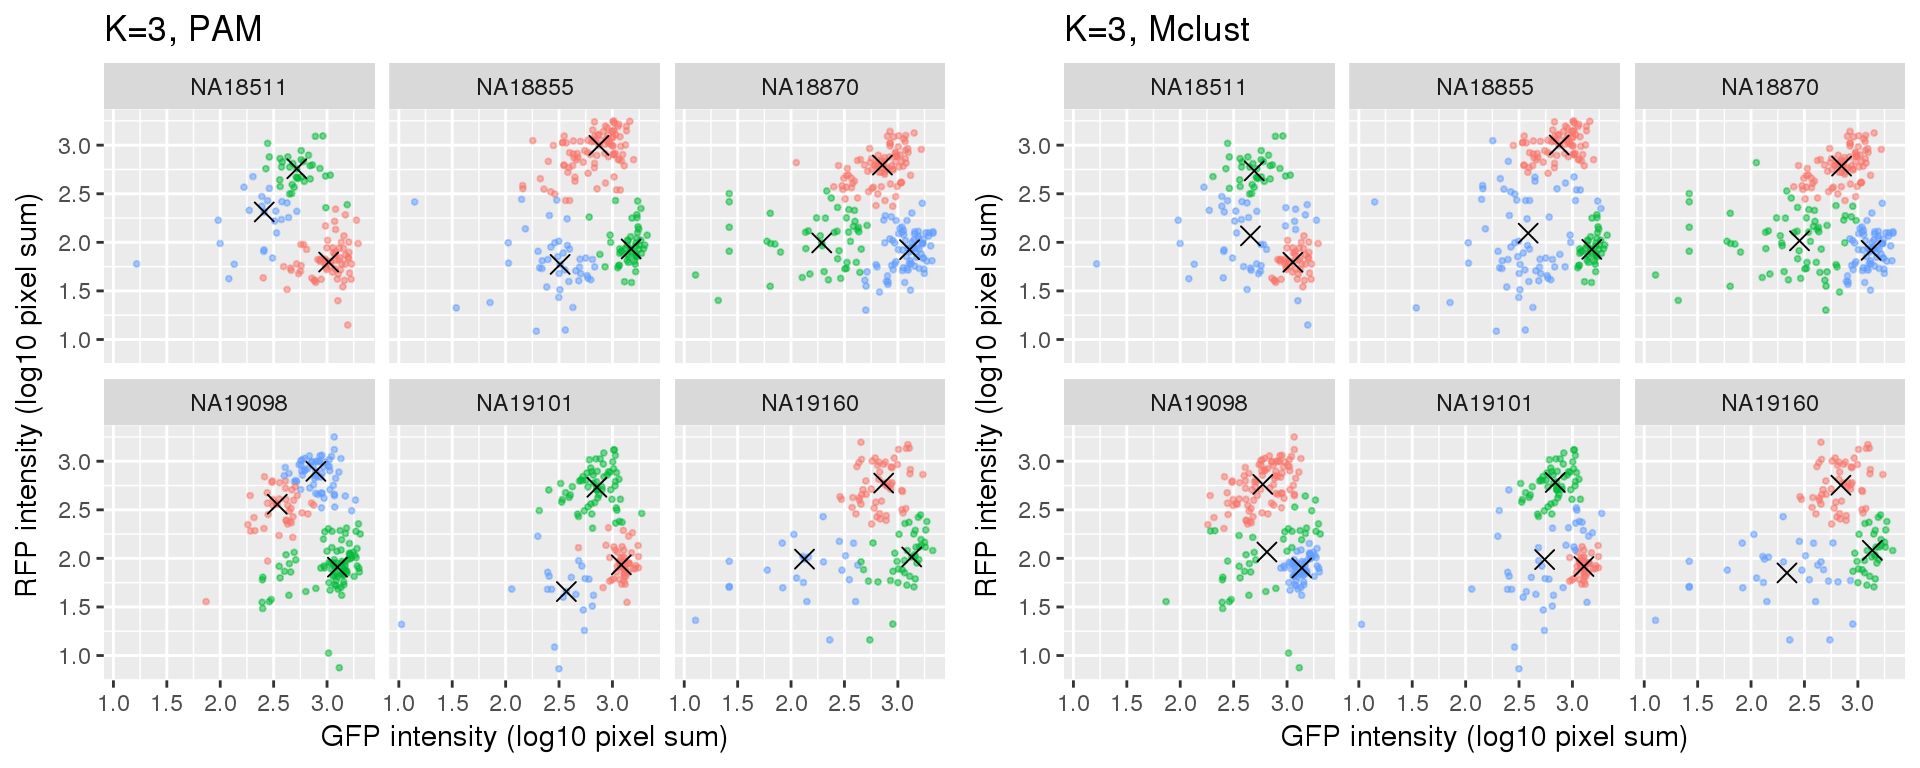
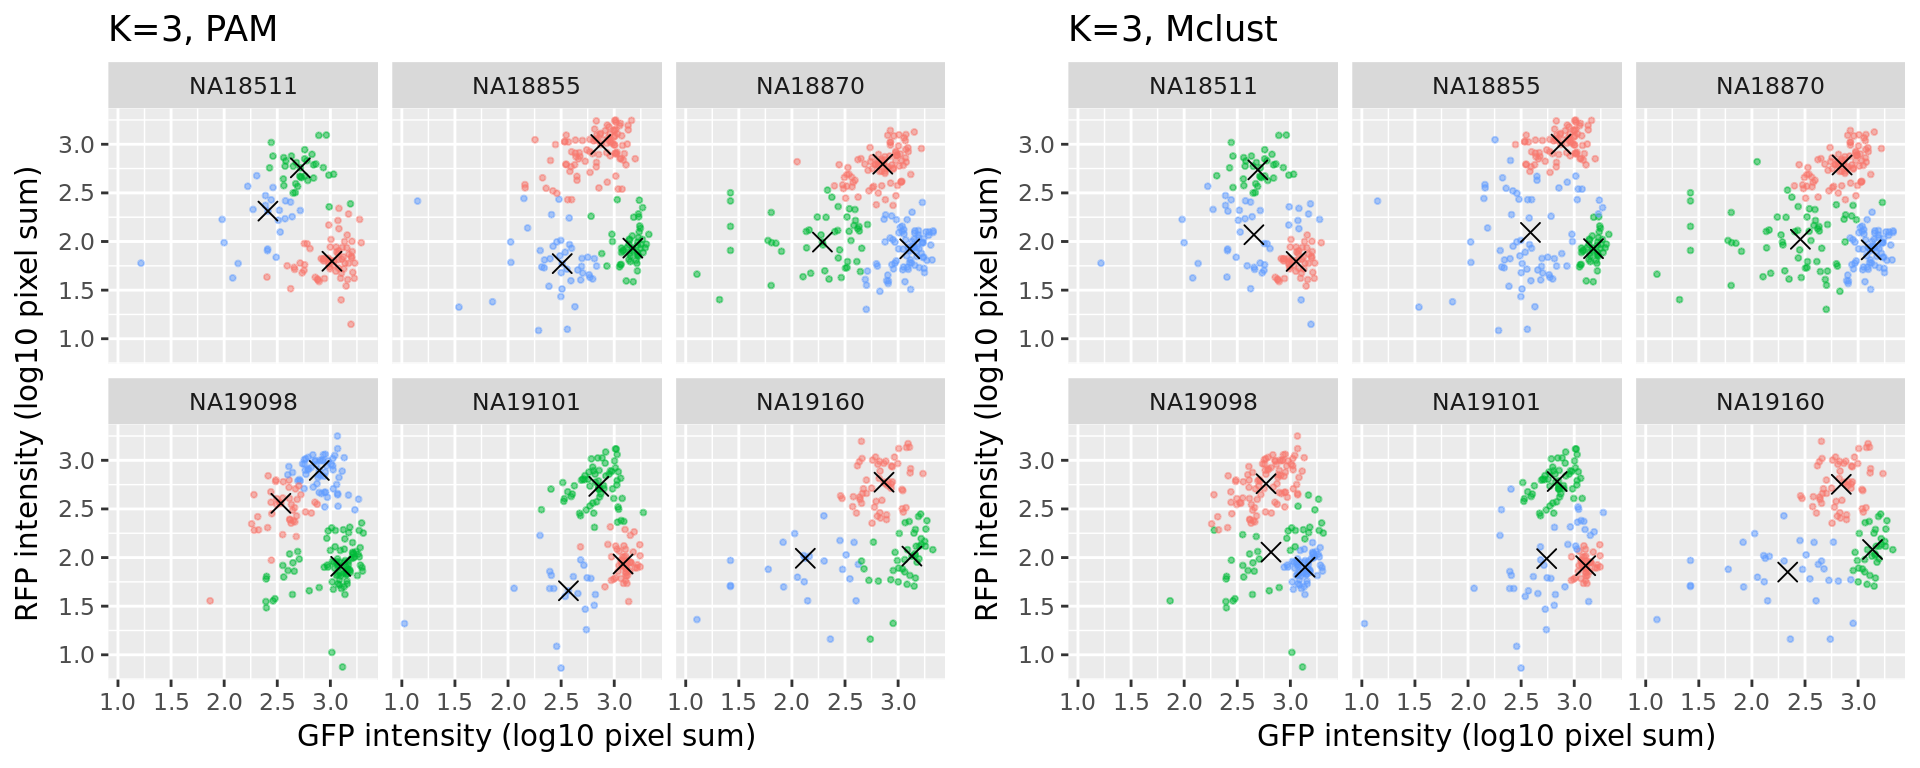
Build site.

diff --git a/docs/images-subset-silhouette.html b/docs/images-subset-silhouette.html
@@ -319,10 +319,10 @@ div.section {
 shared across the workflowr files. -->
 <!-- Update knitr chunk options -->
 <!-- Insert the date the file was last updated -->
-<p><strong>Last updated:</strong> 2018-01-30</p>
+<p><strong>Last updated:</strong> 2018-01-31</p>
 <!-- Insert the code version (Git commit SHA1) if Git repository exists and R
  package git2r is installed -->
-<p><strong>Code version:</strong> e69bd0d</p>
+<p><strong>Code version:</strong> 8ea93f0</p>
 <hr />
 <div id="overviewresults" class="section level2">
 <h2>Overview/Results</h2>
@@ -463,21 +463,94 @@ foo &lt;- lapply(1:uniqueN(si_pam_long$chip_id), function(i) {
 })
 foo &lt;- do.call(rbind, foo)
 si_pam_25 &lt;- foo</code></pre>
+<p>Compare full set versus subset of cells.</p>
+<p><img src="figure/images-subset-silhouette.Rmd/unnamed-chunk-7-1.png" width="960" style="display: block; margin: auto;" /></p>
+<p>hard code cluster labels. default in ggplot is 1 orange, 2 green, 3 blue</p>
+<pre class="r"><code># NA18511
+# orange 1 to 3, green 2 to 2, blue 3 to 1, 
+
+# NA18855
+# orange 1 to 2, green 2 to 3, blue 3 to 1, 
+
+# NA18870
+# orange 1 to 2, green 2 to 1, blue 3 to 3
+
+# NA19098
+# orange 1 to 1, green 2 to 3, blue 3 to 2
+
+# NA19101
+# orange 1 to 3, green 2 to 2, blue 3 to 1
+
+# NA19160
+# orange 1 to 2, green 2 to 3, blue 3 to 1
+
+tmp &lt;- si_pam_long
+tmp[si_pam_long$chip_id == &quot;NA18511&quot; &amp; si_pam_long$cluster==1,]$cluster &lt;- 3
+tmp[si_pam_long$chip_id == &quot;NA18511&quot; &amp; si_pam_long$cluster==2,]$cluster &lt;- 2
+tmp[si_pam_long$chip_id == &quot;NA18511&quot; &amp; si_pam_long$cluster==3,]$cluster &lt;- 1
+
+tmp[si_pam_long$chip_id == &quot;NA18855&quot; &amp; si_pam_long$cluster==1,]$cluster &lt;- 2
+tmp[si_pam_long$chip_id == &quot;NA18855&quot; &amp; si_pam_long$cluster==2,]$cluster &lt;- 3
+tmp[si_pam_long$chip_id == &quot;NA18855&quot; &amp; si_pam_long$cluster==3,]$cluster &lt;- 1
+
+tmp[si_pam_long$chip_id == &quot;NA18870&quot; &amp; si_pam_long$cluster==1,]$cluster &lt;- 2
+tmp[si_pam_long$chip_id == &quot;NA18870&quot; &amp; si_pam_long$cluster==2,]$cluster &lt;- 1
+tmp[si_pam_long$chip_id == &quot;NA18870&quot; &amp; si_pam_long$cluster==3,]$cluster &lt;- 3
+
+tmp[si_pam_long$chip_id == &quot;NA19098&quot; &amp; si_pam_long$cluster==1,]$cluster &lt;- 1
+tmp[si_pam_long$chip_id == &quot;NA19098&quot; &amp; si_pam_long$cluster==2,]$cluster &lt;- 3
+tmp[si_pam_long$chip_id == &quot;NA19098&quot; &amp; si_pam_long$cluster==3,]$cluster &lt;- 2
+
+tmp[si_pam_long$chip_id == &quot;NA19101&quot; &amp; si_pam_long$cluster==1,]$cluster &lt;- 3
+tmp[si_pam_long$chip_id == &quot;NA19101&quot; &amp; si_pam_long$cluster==2,]$cluster &lt;- 2
+tmp[si_pam_long$chip_id == &quot;NA19101&quot; &amp; si_pam_long$cluster==3,]$cluster &lt;- 1
+
+tmp[si_pam_long$chip_id == &quot;NA19160&quot; &amp; si_pam_long$cluster==1,]$cluster &lt;- 2
+tmp[si_pam_long$chip_id == &quot;NA19160&quot; &amp; si_pam_long$cluster==2,]$cluster &lt;- 3
+tmp[si_pam_long$chip_id == &quot;NA19160&quot; &amp; si_pam_long$cluster==3,]$cluster &lt;- 1
+
+
+plot_grid(
+  ggplot(data=si_pam_long) + 
+      geom_point(aes(x=gfp.median.log10sum, 
+                     y=rfp.median.log10sum, col=as.factor(cluster)),
+         alpha = .5, cex = .7) + 
+      geom_point(data=pam_centers,
+                  aes(x=gfp.median.log10sum,
+                      y=rfp.median.log10sum), shape=4, size=3) +
+      labs(title = &quot;K=3, PAM&quot;,
+           x=&quot;GFP intensity (log10 pixel sum)&quot;, 
+           y = &quot;RFP intensity (log10 pixel sum)&quot;) + 
+      facet_wrap(~as.factor(chip_id), ncol=3) +
+      theme_gray() + theme(legend.position=&quot;none&quot;),
+  ggplot(data=si_pam_25) + 
+      geom_point(aes(x=gfp.median.log10sum, 
+                     y=rfp.median.log10sum, col=as.factor(cluster)),
+         alpha = .5, cex = .7) + 
+      geom_point(data=pam_centers,
+                  aes(x=gfp.median.log10sum,
+                      y=rfp.median.log10sum), shape=4, size=3) +
+      labs(title = &quot;Top 25 samples within clusters&quot;,
+           x=&quot;GFP intensity (log10 pixel sum)&quot;, 
+           y = &quot;RFP intensity (log10 pixel sum)&quot;) + 
+      facet_wrap(~as.factor(chip_id), ncol=3) +
+      theme_gray() + theme(legend.position=&quot;none&quot;)
+  )</code></pre>
+<p><img src="figure/images-subset-silhouette.Rmd/unnamed-chunk-8-1.png" width="672" style="display: block; margin: auto;" /></p>
 <p>save subset of cells to rds.</p>
 <pre class="r"><code>save(si_pam_long, si_pam_25, 
     file = &quot;../output/images-subset-silhouette.Rmd/si_pam.rda&quot;)</code></pre>
-<p>Compare full set versus subset of cells.</p>
-<p><img src="figure/images-subset-silhouette.Rmd/unnamed-chunk-8-1.png" width="960" style="display: block; margin: auto;" /></p>
 <hr />
 </div>
 <div id="session-information" class="section level2">
 <h2>Session information</h2>
 <pre><code>R version 3.4.1 (2017-06-30)
-Platform: x86_64-redhat-linux-gnu (64-bit)
-Running under: Scientific Linux 7.2 (Nitrogen)
+Platform: x86_64-pc-linux-gnu (64-bit)
+Running under: Scientific Linux 7.4 (Nitrogen)
 
 Matrix products: default
-BLAS/LAPACK: /usr/lib64/R/lib/libRblas.so
+BLAS: /home/joycehsiao/miniconda3/envs/fucci-seq/lib/R/lib/libRblas.so
+LAPACK: /home/joycehsiao/miniconda3/envs/fucci-seq/lib/R/lib/libRlapack.so
 
 locale:
  [1] LC_CTYPE=en_US.UTF-8       LC_NUMERIC=C              
@@ -492,18 +565,18 @@ attached base packages:
 [8] base     
 
 other attached packages:
-[1] tidyr_0.7.2         data.table_1.10.4-3 mclust_5.4         
-[4] cluster_2.0.6       cowplot_0.9.2       ggplot2_2.2.1      
+[1] tidyr_0.7.1         data.table_1.10.4   mclust_5.3         
+[4] cluster_2.0.6       cowplot_0.9.1       ggplot2_2.2.1      
 [7] Biobase_2.38.0      BiocGenerics_0.24.0
 
 loaded via a namespace (and not attached):
  [1] Rcpp_0.12.14     knitr_1.17       magrittr_1.5     munsell_0.4.3   
- [5] colorspace_1.3-2 rlang_0.1.4      stringr_1.2.0    plyr_1.8.4      
- [9] tools_3.4.1      grid_3.4.1       gtable_0.2.0     git2r_0.20.0    
-[13] htmltools_0.3.6  yaml_2.1.16      lazyeval_0.2.1   rprojroot_1.3-1 
-[17] digest_0.6.13    tibble_1.3.4     purrr_0.2.4      glue_1.2.0      
-[21] evaluate_0.10.1  rmarkdown_1.8    labeling_0.3     stringi_1.1.6   
-[25] compiler_3.4.1   scales_0.5.0     backports_1.1.2 </code></pre>
+ [5] colorspace_1.3-2 rlang_0.1.4.9000 stringr_1.2.0    plyr_1.8.4      
+ [9] tools_3.4.1      grid_3.4.1       gtable_0.2.0     git2r_0.19.0    
+[13] htmltools_0.3.6  yaml_2.1.16      lazyeval_0.2.0   rprojroot_1.2   
+[17] digest_0.6.12    tibble_1.3.3     purrr_0.2.2      glue_1.1.1      
+[21] evaluate_0.10.1  rmarkdown_1.8    labeling_0.3     stringi_1.1.2   
+[25] compiler_3.4.1   scales_0.4.1     backports_1.0.5 </code></pre>
 </div>
 
 <!-- Adjust MathJax settings so that all math formulae are shown using
